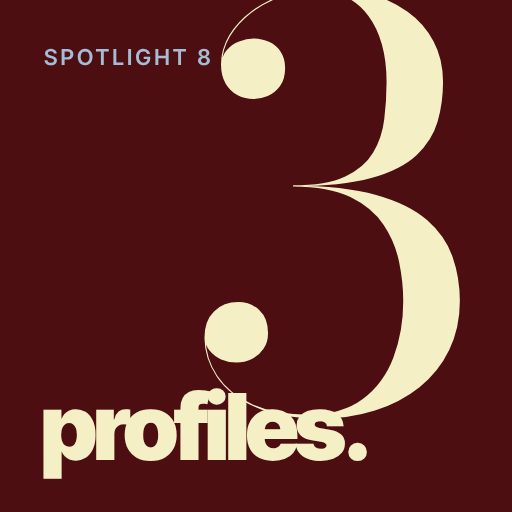
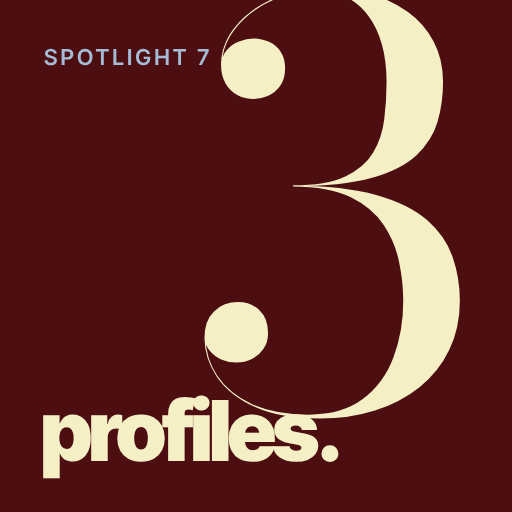
Исправлено: учебник Spotlight 7, а не 8 (страницы, иконка, манифест, скилл)
Claude-Session: https://claude.ai/code/session_0183vKmmVq7gY3LqzNoNdeRs

Changed region(s): [[0.0625, 0.75, 0.7188, 0.9375], [0.375, 0.0938, 0.4062, 0.125]]

diff --git a/.claude/skills/spotlight-module/assets/reference/writings.html b/.claude/skills/spotlight-module/assets/reference/writings.html
@@ -4,7 +4,7 @@
 <meta charset="utf-8">
 <meta name="viewport" content="width=device-width, initial-scale=1">
 <title>Writings</title>
-<meta name="description" content="Spotlight 8, Module 3: образцы письменных заданий — письма, абзац, статья, короткий текст.">
+<meta name="description" content="Spotlight 7, Module 3: образцы письменных заданий — письма, абзац, статья, короткий текст.">
 <meta name="color-scheme" content="light dark">
 <meta name="theme-color" content="#4D0E12">
 <link rel="manifest" href="m3.webmanifest">
@@ -213,7 +213,7 @@ footer .script{display:block;font-size:40px;color:var(--head);line-height:1.1}
 <div class="wrap">
 <header class="hero">
   <div class="giant" aria-hidden="true">W</div>
-  <div class="corner"><span class="label">Spotlight 8<br>Module 03</span></div>
+  <div class="corner"><span class="label">Spotlight 7<br>Module 03</span></div>
   <h1>writings.<span class="script">write it right!</span></h1>
   <p class="lead">Образцы для письменных заданий модуля «Profiles»: письмо другу, абзац о книжном герое, статья о человеке, которым восхищаешься, письмо о достопримечательности России и короткий текст по истории. Жирным выделено то, что можно заменить своим.</p>
   <div class="foot"><span class="label">5 образцов</span></div>
@@ -243,7 +243,7 @@ footer .script{display:block;font-size:40px;color:var(--head);line-height:1.1}
   </details>
 </section>
 
-<footer><span class="script">good luck!</span><span class="label">Spotlight 8 · Module 3 · Writings</span></footer>
+<footer><span class="script">good luck!</span><span class="label">Spotlight 7 · Module 3 · Writings</span></footer>
 </div>
 <script>
 const $=(s,r=document)=>r.querySelector(s),$$=(s,r=document)=>[...r.querySelectorAll(s)];

diff --git a/docs/writings.html b/docs/writings.html
@@ -4,7 +4,7 @@
 <meta charset="utf-8">
 <meta name="viewport" content="width=device-width, initial-scale=1">
 <title>Writings</title>
-<meta name="description" content="Spotlight 8, Module 3: образцы письменных заданий — письма, абзац, статья, короткий текст.">
+<meta name="description" content="Spotlight 7, Module 3: образцы письменных заданий — письма, абзац, статья, короткий текст.">
 <meta name="color-scheme" content="light dark">
 <meta name="theme-color" content="#4D0E12">
 <link rel="manifest" href="m3.webmanifest">
@@ -224,7 +224,7 @@ footer .script{display:block;font-size:40px;color:var(--head);line-height:1.1}
 <div class="wrap">
 <header class="hero">
   <div class="giant" aria-hidden="true">W</div>
-  <div class="corner"><span class="label">Spotlight 8<br>Module 03</span></div>
+  <div class="corner"><span class="label">Spotlight 7<br>Module 03</span></div>
   <h1>writings.<span class="script">write it right!</span></h1>
   <p class="lead">Образцы для письменных заданий модуля «Profiles»: письмо другу, абзац о книжном герое, статья о человеке, которым восхищаешься, письмо о достопримечательности России и короткий текст по истории. Жирным выделено то, что можно заменить своим.</p>
   <div class="foot"><span class="label">5 образцов</span></div>
@@ -254,7 +254,7 @@ footer .script{display:block;font-size:40px;color:var(--head);line-height:1.1}
   </details>
 </section>
 
-<footer><span class="script">good luck!</span><span class="label">Spotlight 8 · Module 3 · Writings</span></footer>
+<footer><span class="script">good luck!</span><span class="label">Spotlight 7 · Module 3 · Writings</span></footer>
 </div>
 <script>
 const $=(s,r=document)=>r.querySelector(s),$$=(s,r=document)=>[...r.querySelectorAll(s)];

diff --git a/writings.html b/writings.html
@@ -4,7 +4,7 @@
 <meta charset="utf-8">
 <meta name="viewport" content="width=device-width, initial-scale=1">
 <title>Writings</title>
-<meta name="description" content="Spotlight 8, Module 3: образцы письменных заданий — письма, абзац, статья, короткий текст.">
+<meta name="description" content="Spotlight 7, Module 3: образцы письменных заданий — письма, абзац, статья, короткий текст.">
 <meta name="color-scheme" content="light dark">
 <meta name="theme-color" content="#4D0E12">
 <link rel="manifest" href="m3.webmanifest">
@@ -224,7 +224,7 @@ footer .script{display:block;font-size:40px;color:var(--head);line-height:1.1}
 <div class="wrap">
 <header class="hero">
   <div class="giant" aria-hidden="true">W</div>
-  <div class="corner"><span class="label">Spotlight 8<br>Module 03</span></div>
+  <div class="corner"><span class="label">Spotlight 7<br>Module 03</span></div>
   <h1>writings.<span class="script">write it right!</span></h1>
   <p class="lead">Образцы для письменных заданий модуля «Profiles»: письмо другу, абзац о книжном герое, статья о человеке, которым восхищаешься, письмо о достопримечательности России и короткий текст по истории. Жирным выделено то, что можно заменить своим.</p>
   <div class="foot"><span class="label">5 образцов</span></div>
@@ -254,7 +254,7 @@ footer .script{display:block;font-size:40px;color:var(--head);line-height:1.1}
   </details>
 </section>
 
-<footer><span class="script">good luck!</span><span class="label">Spotlight 8 · Module 3 · Writings</span></footer>
+<footer><span class="script">good luck!</span><span class="label">Spotlight 7 · Module 3 · Writings</span></footer>
 </div>
 <script>
 const $=(s,r=document)=>r.querySelector(s),$$=(s,r=document)=>[...r.querySelectorAll(s)];

diff --git a/.claude/skills/spotlight-module/assets/reference/module3.html b/.claude/skills/spotlight-module/assets/reference/module3.html
@@ -4,7 +4,7 @@
 <meta charset="utf-8">
 <meta name="viewport" content="width=device-width, initial-scale=1">
 <title>Module 3 · Profiles</title>
-<meta name="description" content="Spotlight 8, Module 3 «Profiles»: теория, тексты, интерактивные упражнения и Progress Check с самопроверкой.">
+<meta name="description" content="Spotlight 7, Module 3 «Profiles»: теория, тексты, интерактивные упражнения и Progress Check с самопроверкой.">
 <meta name="color-scheme" content="light dark">
 <meta name="theme-color" content="#4D0E12">
 <link rel="manifest" href="m3.webmanifest">
@@ -215,7 +215,7 @@ footer .script{display:block;font-size:40px;color:var(--head);line-height:1.1}
 <div class="wrap">
 <header class="hero" id="top">
   <div class="giant" aria-hidden="true">3</div>
-  <div class="corner"><span class="label">Spotlight 8<br>Module 03</span></div>
+  <div class="corner"><span class="label">Spotlight 7<br>Module 03</span></div>
   <h1>profiles.<span class="script">learn anything!</span></h1>
   <p class="lead">Хобби, внешность и характер, люди, которыми восхищаются, профессии, бифитеры и дети викторианской Англии. Теория, пересказ текстов и упражнения с мгновенной проверкой: нажми на вариант, верный ответ подсветится голубым.</p>
   <div class="foot"><span class="label">🔊 озвучка слов<br><a href="module3-words.html">слова модуля →</a></span></div>
@@ -535,7 +535,7 @@ footer .script{display:block;font-size:40px;color:var(--head);line-height:1.1}
 </section>
 
 
-<footer><span class="script">good luck!</span><span class="label">Spotlight 8 · Module 3 · Profiles</span></footer>
+<footer><span class="script">good luck!</span><span class="label">Spotlight 7 · Module 3 · Profiles</span></footer>
 </div>
 
 <script>

diff --git a/docs/module3.html b/docs/module3.html
@@ -4,7 +4,7 @@
 <meta charset="utf-8">
 <meta name="viewport" content="width=device-width, initial-scale=1">
 <title>Module 3 · Profiles</title>
-<meta name="description" content="Spotlight 8, Module 3 «Profiles»: теория, тексты, интерактивные упражнения и Progress Check с самопроверкой.">
+<meta name="description" content="Spotlight 7, Module 3 «Profiles»: теория, тексты, интерактивные упражнения и Progress Check с самопроверкой.">
 <meta name="color-scheme" content="light dark">
 <meta name="theme-color" content="#4D0E12">
 <link rel="manifest" href="m3.webmanifest">
@@ -226,7 +226,7 @@ footer .script{display:block;font-size:40px;color:var(--head);line-height:1.1}
 <div class="wrap">
 <header class="hero" id="top">
   <div class="giant" aria-hidden="true">3</div>
-  <div class="corner"><span class="label">Spotlight 8<br>Module 03</span></div>
+  <div class="corner"><span class="label">Spotlight 7<br>Module 03</span></div>
   <h1>profiles.<span class="script">learn anything!</span></h1>
   <p class="lead">Хобби, внешность и характер, люди, которыми восхищаются, профессии, бифитеры и дети викторианской Англии. Теория, пересказ текстов и упражнения с мгновенной проверкой: нажми на вариант, верный ответ подсветится голубым.</p>
   <div class="foot"><span class="label">🔊 озвучка слов<br><a href="module3-words.html">слова модуля →</a></span></div>
@@ -546,7 +546,7 @@ footer .script{display:block;font-size:40px;color:var(--head);line-height:1.1}
 </section>
 
 
-<footer><span class="script">good luck!</span><span class="label">Spotlight 8 · Module 3 · Profiles</span></footer>
+<footer><span class="script">good luck!</span><span class="label">Spotlight 7 · Module 3 · Profiles</span></footer>
 </div>
 
 <script>

diff --git a/module3.html b/module3.html
@@ -4,7 +4,7 @@
 <meta charset="utf-8">
 <meta name="viewport" content="width=device-width, initial-scale=1">
 <title>Module 3 · Profiles</title>
-<meta name="description" content="Spotlight 8, Module 3 «Profiles»: теория, тексты, интерактивные упражнения и Progress Check с самопроверкой.">
+<meta name="description" content="Spotlight 7, Module 3 «Profiles»: теория, тексты, интерактивные упражнения и Progress Check с самопроверкой.">
 <meta name="color-scheme" content="light dark">
 <meta name="theme-color" content="#4D0E12">
 <link rel="manifest" href="m3.webmanifest">
@@ -226,7 +226,7 @@ footer .script{display:block;font-size:40px;color:var(--head);line-height:1.1}
 <div class="wrap">
 <header class="hero" id="top">
   <div class="giant" aria-hidden="true">3</div>
-  <div class="corner"><span class="label">Spotlight 8<br>Module 03</span></div>
+  <div class="corner"><span class="label">Spotlight 7<br>Module 03</span></div>
   <h1>profiles.<span class="script">learn anything!</span></h1>
   <p class="lead">Хобби, внешность и характер, люди, которыми восхищаются, профессии, бифитеры и дети викторианской Англии. Теория, пересказ текстов и упражнения с мгновенной проверкой: нажми на вариант, верный ответ подсветится голубым.</p>
   <div class="foot"><span class="label">🔊 озвучка слов<br><a href="module3-words.html">слова модуля →</a></span></div>
@@ -546,7 +546,7 @@ footer .script{display:block;font-size:40px;color:var(--head);line-height:1.1}
 </section>
 
 
-<footer><span class="script">good luck!</span><span class="label">Spotlight 8 · Module 3 · Profiles</span></footer>
+<footer><span class="script">good luck!</span><span class="label">Spotlight 7 · Module 3 · Profiles</span></footer>
 </div>
 
 <script>

diff --git a/.claude/skills/spotlight-module/assets/reference/module3-words.html b/.claude/skills/spotlight-module/assets/reference/module3-words.html
@@ -4,7 +4,7 @@
 <meta charset="utf-8">
 <meta name="viewport" content="width=device-width, initial-scale=1">
 <title>Module 3 Words</title>
-<meta name="description" content="Слова и словосочетания Spotlight 8, Module 3: список, карточки, тест и тренажёр написания.">
+<meta name="description" content="Слова и словосочетания Spotlight 7, Module 3: список, карточки, тест и тренажёр написания.">
 <meta name="color-scheme" content="light dark">
 <meta name="theme-color" content="#4D0E12">
 <link rel="manifest" href="m3.webmanifest">
@@ -125,7 +125,7 @@ select{appearance:none;-webkit-appearance:none;font-size:13px;padding:7px 30px 7
 <body>
 <div class="wrap">
 <header class="hero">
-  <div class="corner"><span class="label">Spotlight 8<br>Module 03</span><span class="label">Vocabulary</span></div>
+  <div class="corner"><span class="label">Spotlight 7<br>Module 03</span><span class="label">Vocabulary</span></div>
   <h1>words, <em>words,</em> words.</h1>
   <div class="script">learn them all!</div>
   <p>Слова и выражения модуля «Profiles» по разделам учебника. Учи списком, закрепляй карточками, тестом и написанием. Отметки «знаю» сохраняются на этом устройстве.</p>

diff --git a/docs/module3-words.html b/docs/module3-words.html
@@ -4,7 +4,7 @@
 <meta charset="utf-8">
 <meta name="viewport" content="width=device-width, initial-scale=1">
 <title>Module 3 Words</title>
-<meta name="description" content="Слова и словосочетания Spotlight 8, Module 3: список, карточки, тест и тренажёр написания.">
+<meta name="description" content="Слова и словосочетания Spotlight 7, Module 3: список, карточки, тест и тренажёр написания.">
 <meta name="color-scheme" content="light dark">
 <meta name="theme-color" content="#4D0E12">
 <link rel="manifest" href="m3.webmanifest">
@@ -136,7 +136,7 @@ select{appearance:none;-webkit-appearance:none;font-size:13px;padding:7px 30px 7
 <body>
 <div class="wrap">
 <header class="hero">
-  <div class="corner"><span class="label">Spotlight 8<br>Module 03</span><span class="label">Vocabulary</span></div>
+  <div class="corner"><span class="label">Spotlight 7<br>Module 03</span><span class="label">Vocabulary</span></div>
   <h1>words, <em>words,</em> words.</h1>
   <div class="script">learn them all!</div>
   <p>Слова и выражения модуля «Profiles» по разделам учебника. Учи списком, закрепляй карточками, тестом и написанием. Отметки «знаю» сохраняются на этом устройстве.</p>

diff --git a/module3-words.html b/module3-words.html
@@ -4,7 +4,7 @@
 <meta charset="utf-8">
 <meta name="viewport" content="width=device-width, initial-scale=1">
 <title>Module 3 Words</title>
-<meta name="description" content="Слова и словосочетания Spotlight 8, Module 3: список, карточки, тест и тренажёр написания.">
+<meta name="description" content="Слова и словосочетания Spotlight 7, Module 3: список, карточки, тест и тренажёр написания.">
 <meta name="color-scheme" content="light dark">
 <meta name="theme-color" content="#4D0E12">
 <link rel="manifest" href="m3.webmanifest">
@@ -136,7 +136,7 @@ select{appearance:none;-webkit-appearance:none;font-size:13px;padding:7px 30px 7
 <body>
 <div class="wrap">
 <header class="hero">
-  <div class="corner"><span class="label">Spotlight 8<br>Module 03</span><span class="label">Vocabulary</span></div>
+  <div class="corner"><span class="label">Spotlight 7<br>Module 03</span><span class="label">Vocabulary</span></div>
   <h1>words, <em>words,</em> words.</h1>
   <div class="script">learn them all!</div>
   <p>Слова и выражения модуля «Profiles» по разделам учебника. Учи списком, закрепляй карточками, тестом и написанием. Отметки «знаю» сохраняются на этом устройстве.</p>

diff --git a/.claude/skills/spotlight-module/scripts/make_icon.js b/.claude/skills/spotlight-module/scripts/make_icon.js
@@ -12,7 +12,7 @@ html,body{margin:0}body{width:512px;height:512px;background:#4D0E12;position:rel
 .n{position:absolute;right:30px;top:-70px;font:400 560px/1 "Bodoni Moda";color:#F5EFC6}
 .t{position:absolute;left:40px;right:30px;bottom:46px;color:#F5EFC6;font-weight:900;font-size:84px;letter-spacing:-.05em;line-height:.85}
 .s{position:absolute;left:44px;top:44px;color:#A5BCD6;font-weight:600;font-size:22px;letter-spacing:.14em;text-transform:uppercase}
-</style><div class=n>${num}</div><div class=s>Spotlight 8</div><div class=t>${title}</div>`;
+</style><div class=n>${num}</div><div class=s>Spotlight 7</div><div class=t>${title}</div>`;
 (async () => {
   const b = await chromium.launch(); const p = await b.newPage({ viewport: { width: 512, height: 512 } });
   await p.setContent(html); await p.evaluate(() => document.fonts.ready); await p.waitForTimeout(300);

diff --git a/.claude/skills/spotlight-module/assets/spotlight-sw.js b/.claude/skills/spotlight-module/assets/spotlight-sw.js
@@ -1,4 +1,4 @@
-/* Spotlight 8 — работа без интернета для страниц модулей.
+/* Spotlight 7 — работа без интернета для страниц модулей.
    ОДИН service worker на весь сайт: два воркера с одной областью (scope "./") вытесняют друг друга,
    поэтому все модули перечислены здесь, а каждая страница модуля регистрирует именно этот файл.
    При любом изменении страниц подними номер версии в CACHE, иначе телефоны будут держать старую копию. */

diff --git a/docs/m3-sw.js b/docs/m3-sw.js
@@ -1,7 +1,7 @@
-/* Spotlight 8 · Module 3 — работа без интернета.
+/* Spotlight 7 · Module 3 — работа без интернета.
    После первого открытия страницы модуля сохраняются в кэш телефона и открываются офлайн.
    Остальные страницы сайта этот файл не трогает. */
-const CACHE = "module3-v2";
+const CACHE = "module3-v3";
 const FILES = ["module3.html", "module3-words.html", "writings.html", "m3-icon.png", "m3.webmanifest"];
 
 self.addEventListener("install", e => {
